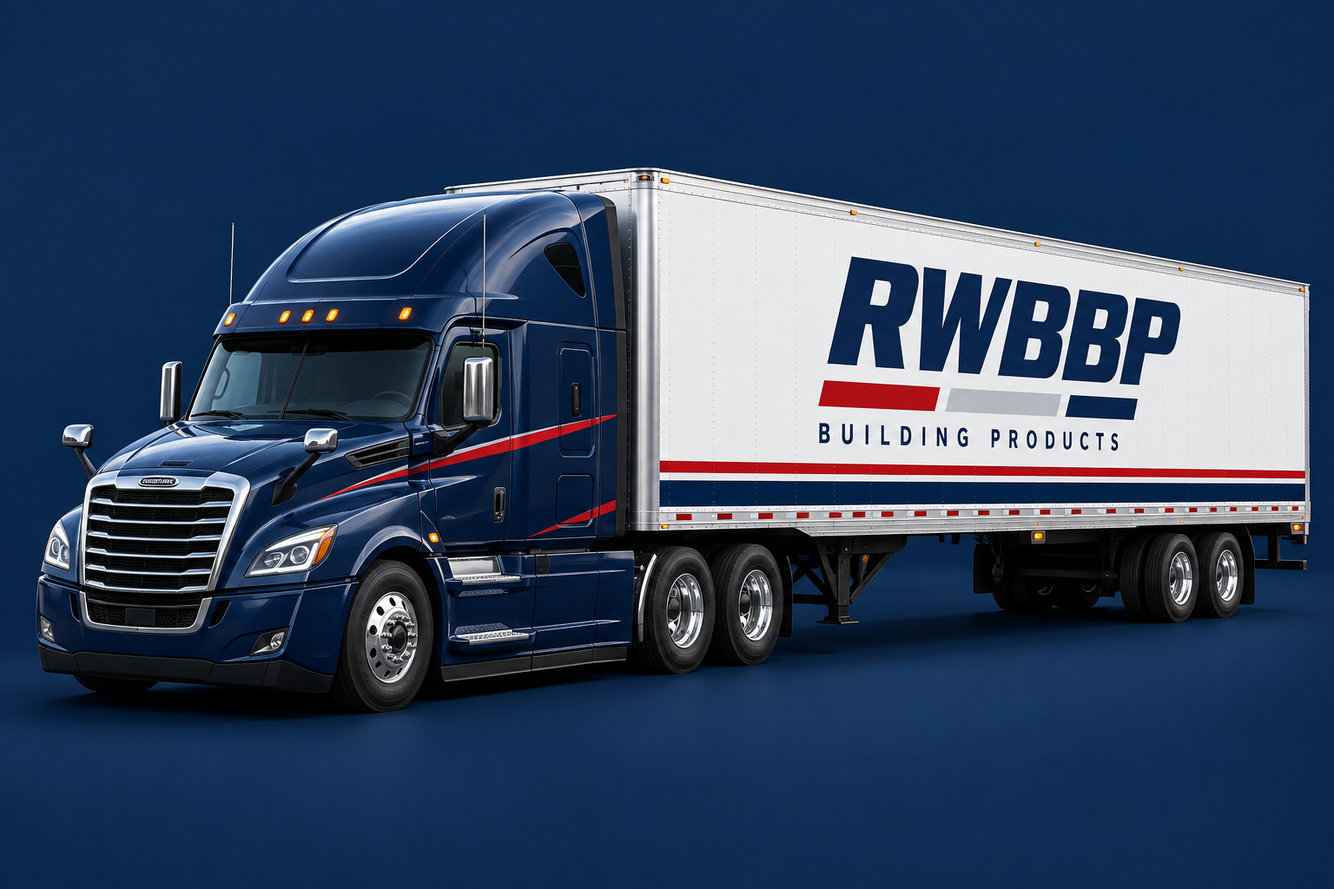
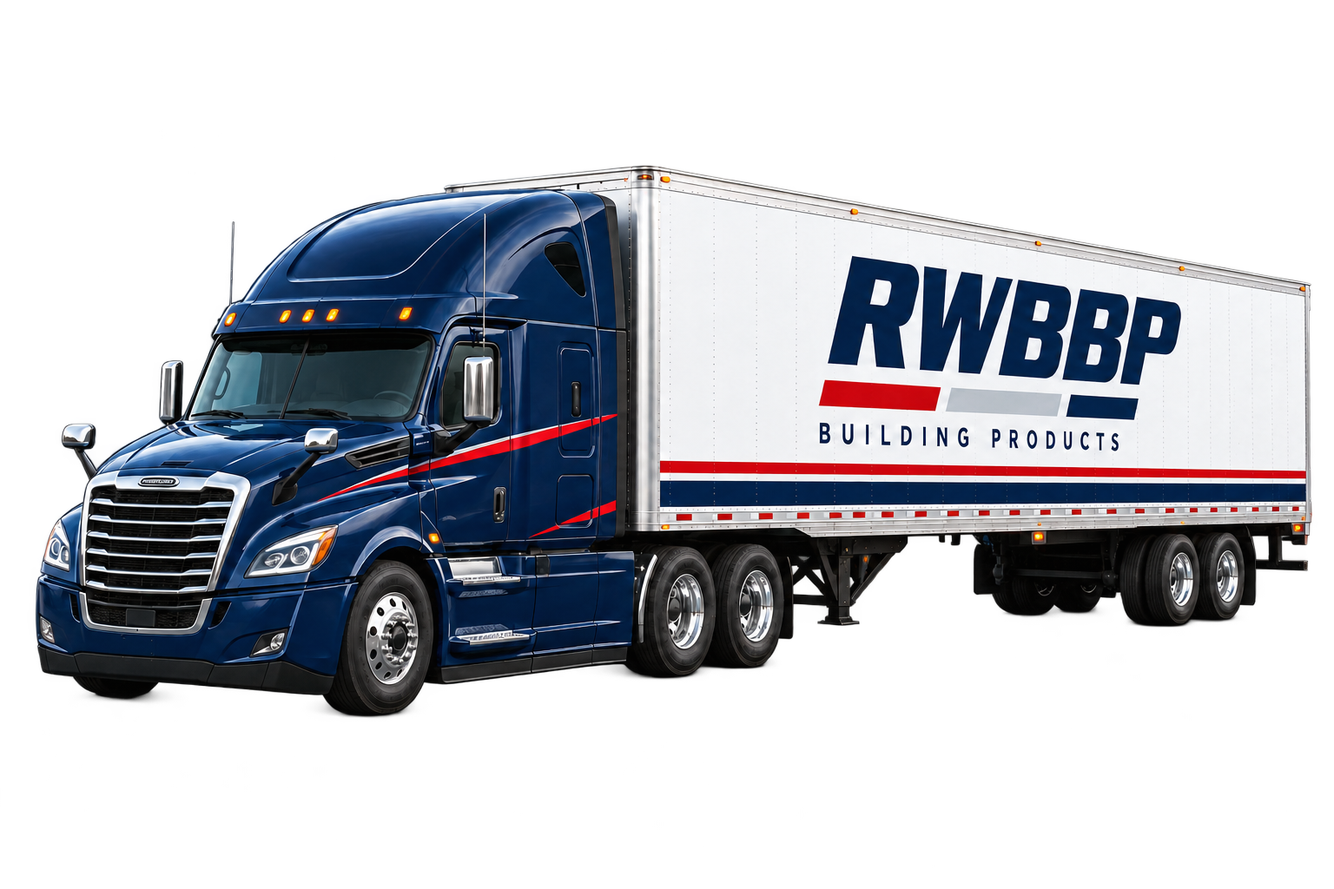
Update products, transparent truck, sitemap, and sharing assets

diff --git a/styles.css b/styles.css
@@ -1,4 +1,6 @@
 @import url('https://fonts.googleapis.com/css2?family=Barlow+Condensed:wght@600;700;800&family=DM+Sans:wght@400;500;600;700&display=swap');
 :root{--navy:#102847;--red:#cf2936;--cream:#f5f4f0;--ink:#142b45;--muted:#65707c}*{box-sizing:border-box}html{scroll-behavior:smooth;scroll-padding-top:30px}body{margin:0;color:var(--ink);font-family:'DM Sans',Arial,sans-serif;font-size:15px}a{color:inherit;text-decoration:none}button,input,textarea{font:inherit}a,button,input,textarea{outline-offset:5px}button,a{ -webkit-tap-highlight-color:transparent}.wrap{width:min(1240px,calc(100% - 100px));margin:auto}.topbar{background:var(--navy);color:white;font-size:10px;font-weight:700;letter-spacing:1.3px}.topbar .wrap{display:flex;justify-content:space-between;padding-block:12px}.topbar a{letter-spacing:.4px}.topbar a span{margin-left:20px}.header{background:white}.nav{height:104px;display:flex;align-items:center;justify-content:space-between}.brand{display:flex;align-items:center;gap:12px}.brand-symbol{font-family:'Barlow Condensed','Arial Narrow',Arial,sans-serif;font-style:italic;font-size:47px;font-weight:800;line-height:.85;letter-spacing:-2px;display:block}.brand-stripes{display:flex;gap:3px;margin-top:7px;transform:skew(-14deg)}.brand-stripes i{height:5px;width:30%;background:var(--red)}.brand-stripes i:nth-child(2){background:#b9c1cc}.brand-stripes i:nth-child(3){background:var(--navy)}.brand-label{font-size:11px;letter-spacing:2px;line-height:1.5;font-weight:800;border-left:1px solid #ccd1d7;padding-left:12px}nav{display:flex;gap:34px;align-items:center;font-size:13px;font-weight:700}nav>a:not(.button):hover{color:var(--red)}.button{display:inline-flex;background:var(--red);color:white;padding:19px 25px;gap:35px;justify-content:space-between;align-items:center;border:0;font-weight:700;font-size:13px;cursor:pointer;transition:background .2s,transform .2s}.button:hover{background:#ac1b28;transform:translateY(-2px)}.button span{font-size:19px}.button.small{padding:14px 20px;gap:24px}.menu-toggle{display:none}.hero{background:var(--navy);color:white;position:relative;overflow:hidden}.hero-grid{position:absolute;inset:0;background-image:linear-gradient(#ffffff05 1px,transparent 1px),linear-gradient(90deg,#ffffff05 1px,transparent 1px);background-size:85px 85px}.hero-content{position:relative;display:grid;grid-template-columns:1fr 1fr;min-height:645px;align-items:center}.hero-copy{padding:55px 0 65px;z-index:2}.eyebrow{font-size:10px;letter-spacing:2px;font-weight:800;color:var(--red);margin:0 0 22px}.eyebrow.light{color:#fff}.eyebrow.light>span{display:inline-block;width:24px;height:3px;background:var(--red);vertical-align:middle;margin-right:10px}h1,h2{font-family:'Barlow Condensed','Arial Narrow',Impact,sans-serif;font-weight:700;letter-spacing:-1px;line-height:1.03;margin:0}h1{font-size:clamp(55px,5.9vw,85px)}h1>span{color:#b6c6d8}.hero-description{color:#c0ccdb;line-height:1.8;max-width:390px;font-size:14px;margin:24px 0 29px}.hero-link{display:inline-block;margin-left:23px;font-size:12px;border-bottom:1px solid #607087;padding:10px 0}.hero-link span{margin-left:10px}.hero-art{height:500px;position:relative;margin-left:-20px;align-self:end}.sun{position:absolute;width:330px;height:330px;border-radius:50%;background:#c72c38;right:-50px;top:0}.building{position:absolute}.rear{width:240px;height:230px;right:-40px;top:180px;background:repeating-linear-gradient(0deg,#abb2ad 0 11px,#929f9d 12px 14px);clip-path:polygon(0 15%,50% 0,100% 15%,100% 100%,0 100%)}.main-building{width:460px;height:330px;top:90px;left:0;filter:drop-shadow(0 24px 20px #03152966)}.roof{height:185px;background:repeating-linear-gradient(115deg,transparent 0 24px,#162e3e 25px 28px),linear-gradient(130deg,#a6b2b3,#4c6372);clip-path:polygon(30% 0,78% 0,100% 100%,0 100%)}.facade{height:165px;margin-top:-1px;background:repeating-linear-gradient(0deg,#e8e4d9 0 12px,#c4c5bc 13px 15px);border-top:7px solid #f3eee1;position:relative;clip-path:polygon(0 0,100% 0,100% 90%,0 100%)}.window{position:absolute;left:40px;top:32px;width:75px;height:80px;background:linear-gradient(90deg,transparent 46%,#e6e4d8 47% 53%,transparent 54%),linear-gradient(0deg,#172e40 46%,#e6e4d8 47% 53%,#344c5b 54%);border:6px solid #eeeade;box-shadow:0 0 0 2px #7e8c8a}.window.second{left:160px}.door{position:absolute;right:40px;top:28px;width:77px;height:128px;background:#273e4b;border:6px solid #f0ece0}.door:after{content:'';position:absolute;width:6px;height:6px;background:#c6c4ae;right:8px;top:60px;border-radius:50%}.art-ground{position:absolute;height:35px;width:650px;left:-70px;bottom:55px;background:#071d34;transform:skew(-45deg);opacity:.5}.art-label{position:absolute;bottom:18px;right:0;display:flex;gap:15px;align-items:center;font-size:9px;line-height:1.8;letter-spacing:1.5px;color:#abbcd0}.art-label strong{font-weight:500;color:white}.cross{font-size:35px;color:#d13743;font-weight:400}.hero-bottom{position:relative;border-top:1px solid #ffffff21;display:flex;justify-content:space-between;padding-block:22px;font-size:9px;font-weight:600;letter-spacing:1.8px;color:#b7c6d8}.down{margin-left:22px;color:white;font-size:18px}.values-bar{background:var(--cream);border-bottom:1px solid #dedfe0}.values-bar .wrap{display:grid;grid-template-columns:repeat(4,1fr);padding-block:26px}.values-bar span{text-align:center;font-size:12px;font-weight:700;border-right:1px solid #d6d8dc}.values-bar span:first-child{text-align:left}.values-bar span:last-child{border:0}.values-bar i{font-style:normal;color:var(--red);font-size:10px;margin-right:15px}.section{padding-block:90px}.section-heading{display:flex;justify-content:space-between;align-items:end;gap:50px;margin-bottom:38px}h2{font-size:52px}.section-heading>p{max-width:350px;line-height:1.8;color:var(--muted);font-size:14px;margin-bottom:4px}.product-grid{display:grid;grid-template-columns:repeat(3,1fr);gap:25px}.product-visual{height:245px;background:#e9e9e5;position:relative;overflow:hidden}.category-number{position:absolute;bottom:15px;left:18px;font-size:9px;letter-spacing:1.5px;color:#4b5863;font-weight:700}.roofing{background:linear-gradient(130deg,#d9ddde,#f0efea)}.roof-sample{position:absolute;width:110%;height:220px;top:60px;left:15px;transform:rotate(-25deg) skew(15deg);background:repeating-linear-gradient(0deg,transparent 0 28px,#202f3a 29px 32px),repeating-linear-gradient(90deg,#586571 0 45px,#445461 46px 90px,#5c6973 91px 135px);box-shadow:0 15px 25px #0005}.siding{background:#e8e3da}.siding-sample{position:absolute;inset:15px -30px 15px 50px;transform:skewY(-14deg);background:repeating-linear-gradient(0deg,#b7b4a8 0 2px,#dedbd0 4px 30px,#a29f92 32px 34px);box-shadow:-12px 14px 22px #39414130;border-left:14px solid #f2f0e6}.specialty{background:#dce1e2}.panels{position:absolute;inset:40px 20px 35px 50px;transform:rotate(-18deg);display:flex;gap:12px}.panels i{height:100%;width:65px;background:repeating-linear-gradient(90deg,#b38960 0 5px,#a17751 6px 7px);box-shadow:8px 12px 10px #23374435}.panels i:nth-child(2){background:repeating-linear-gradient(90deg,#ece5d8 0 16px,#d2c9b8 17px 19px);margin-top:-20px}.panels i:nth-child(3){background:repeating-linear-gradient(90deg,#4d5d66 0 16px,#394b56 17px 19px);margin-top:-40px}.card-info{display:flex;align-items:center;justify-content:space-between;padding:23px 0;border-bottom:1px solid #d8dde1}h3{font-size:20px;margin:0 0 9px;letter-spacing:-.5px}.card-info p{margin:0;color:var(--muted);font-size:12px}.circle-arrow{display:grid;place-items:center;width:34px;height:34px;border:1px solid #d5dae0;border-radius:50%;transition:.2s}.product-card:hover .circle-arrow{background:var(--red);color:white;border-color:var(--red)}.product-card:hover .product-visual>div{filter:brightness(1.05)}.product-note{text-align:center;color:var(--muted);font-size:12px;margin:34px 0 0}.product-note a{color:var(--navy);font-weight:700;margin-left:6px}.product-note a span{color:var(--red);margin-left:10px}.about{background:var(--cream);padding-block:75px}.about-grid{display:grid;grid-template-columns:1fr 1fr;gap:100px;align-items:center}.about-mark{border-left:7px solid var(--red);padding:15px 40px;position:relative}.about-mark>span{display:block;font-family:'Barlow Condensed',Impact,sans-serif;font-size:105px;font-weight:800;letter-spacing:-5px;line-height:.9}.about-mark>span:first-child{color:var(--red)}.about-mark>span:nth-child(2){color:white;text-shadow:1px 0 #b4bdc7,-1px 0 #b4bdc7,0 1px #b4bdc7,0 -1px #b4bdc7}.about-mark>div{position:absolute;left:220px;bottom:15px;font-size:11px;letter-spacing:1.6px;line-height:1.8;font-weight:700;writing-mode:vertical-rl;transform:rotate(180deg)}.about-copy p:not(.eyebrow){color:var(--muted);font-size:14px;line-height:1.9}.about-copy h2{margin-bottom:23px}.text-link{display:inline-block;font-size:13px;font-weight:700;margin-top:10px;border-bottom:2px solid var(--red);padding-bottom:10px}.text-link span{margin-left:60px;color:var(--red)}.approach-grid{display:grid;grid-template-columns:repeat(3,1fr);gap:45px;margin-top:45px}.approach-grid article{border-top:1px solid #d5dbe0;padding-top:24px}.step{color:var(--red);font-size:12px;font-weight:700;display:block;margin-bottom:27px}.approach-grid p{font-size:13px;color:var(--muted);line-height:1.9;max-width:300px}.contact{background:var(--navy);color:white;padding-block:75px;position:relative;border-top:7px solid var(--red)}.contact-grid{display:grid;grid-template-columns:1fr 1fr;gap:120px}.contact h2{font-size:65px}.contact h2 span{color:#b6c6d8}.contact p{color:#b4c3d4;font-size:13px;line-height:1.8;margin-top:25px}form{padding-top:6px}label{display:block;font-size:11px;font-weight:600;margin-bottom:10px}input,textarea{display:block;width:100%;border:1px solid #4c6079;background:#ffffff06;color:white;padding:13px 15px;margin-bottom:20px;border-radius:0;font-size:12px}input::placeholder,textarea::placeholder{color:#a2b3c6}textarea{resize:vertical}form .button{width:100%}.contact .form-note{font-size:10px;margin:12px 0 0;color:#a8b8cb}#form-result{border:1px solid #6b829f;padding:15px;margin-top:15px;white-space:pre-wrap;font-size:12px;line-height:1.7}#form-result button{margin-top:12px;padding:8px 12px;cursor:pointer;color:var(--navy);background:white;border:0}footer{background:#fff}.footer-main{padding-block:40px;display:flex;justify-content:space-between;align-items:center}.footer-main p{font-size:12px;line-height:1.7;color:var(--muted)}.footer-main>a:last-child{font-size:11px;font-weight:700}.footer-bottom{display:flex;justify-content:space-between;font-size:9px;color:var(--muted);border-top:1px solid #dfe2e5;padding-block:22px}.footer-bottom>span:last-child{letter-spacing:1.5px}@media(min-width:1500px){.hero-content{min-height:710px}.hero-art{height:540px}}@media(max-width:1000px){.wrap{width:calc(100% - 56px)}nav{gap:20px}.hero-art{transform:scale(.8);transform-origin:left bottom;margin-left:-10px}.hero-content{grid-template-columns:1.1fr 1fr}.hero-link{margin-left:10px}.hero-copy .button{gap:15px}.about-grid{gap:40px}.contact-grid{gap:60px}.product-visual{height:210px}}@media(max-width:720px){.wrap{width:calc(100% - 40px)}.topbar .wrap{justify-content:center;font-size:8px}.topbar a{display:none}.nav{height:85px}.brand-symbol{font-size:39px}.brand-label{font-size:9px}.menu-toggle{display:flex;gap:18px;border:1px solid #d5dae0;background:white;padding:10px;font-size:12px;color:var(--navy)}nav{display:none;position:absolute;top:116px;left:0;right:0;background:white;z-index:10;padding:25px;box-shadow:0 10px 15px #0001}nav.open{display:flex;flex-direction:column;align-items:stretch;gap:24px}.hero-content{display:block;min-height:0}.hero-copy{padding:45px 0 0}h1{font-size:66px}.hero-description{max-width:360px}.hero-link{margin-left:18px}.hero-art{height:370px;transform:scale(.75);transform-origin:left bottom;max-width:100%;margin-top:-10px;margin-left:0}.sun{right:-160px;top:10px}.art-label{right:-60px;bottom:0}.hero-bottom{padding-block:18px;font-size:8px}.hero-bottom>span:first-child{max-width:130px;line-height:1.6}.hero-bottom>span:last-child{max-width:160px;text-align:right;line-height:1.6}.values-bar .wrap{grid-template-columns:1fr 1fr;gap:22px;padding-block:24px}.values-bar span,.values-bar span:first-child{text-align:left;font-size:10px}.values-bar span:nth-child(2){border:0}.values-bar i{margin-right:10px}.section{padding-block:55px}.section-heading{display:block;margin-bottom:28px}h2{font-size:43px}.section-heading>p{margin-top:20px;max-width:100%;font-size:13px}.eyebrow{font-size:9px;letter-spacing:1.5px;margin-bottom:18px}.product-grid{grid-template-columns:1fr;gap:28px}.product-visual{height:240px}.roof-sample{top:70px}.siding-sample{left:70px}.panels{left:85px}.panels i{width:80px}.product-note{line-height:1.9}.product-note a{display:block}.about{padding-block:50px}.about-grid{grid-template-columns:1fr;gap:35px}.about-mark{display:flex;gap:12px;padding:10px 20px}.about-mark>span{font-size:78px}.about-mark>div{display:none}.about-copy p:not(.eyebrow){font-size:13px}.approach-grid{grid-template-columns:1fr;gap:24px;margin-top:30px}.step{margin-bottom:15px}.approach-grid p{max-width:100%}.contact{padding-block:50px}.contact-grid{grid-template-columns:1fr;gap:35px}.contact h2{font-size:57px}.footer-main{flex-wrap:wrap;gap:20px}.footer-main p{font-size:10px}.footer-bottom{gap:20px;line-height:1.7;font-size:8px}.footer-bottom>span:last-child{text-align:right;max-width:130px}}@media(prefers-reduced-motion:reduce){html{scroll-behavior:auto}*{transition:none!important}}
 .arrow-icon{display:inline-block;vertical-align:middle;flex-shrink:0}.circle-arrow .arrow-icon{width:15px;height:15px}.topbar .arrow-icon{width:12px;height:12px}
-.hero-art.truck-art{height:auto;align-self:center;margin-left:-45px;width:calc(100% + 95px);transform:none;position:relative}.hero-truck{display:block;width:100%;height:auto;mix-blend-mode:lighten}.truck-art .art-label{right:25px;bottom:-22px}@media(max-width:1000px){.hero-art.truck-art{margin-left:-20px;width:calc(100% + 45px)}}@media(max-width:720px){.hero-art.truck-art{margin:25px -20px 45px;width:calc(100% + 40px);max-width:none}.truck-art .art-label{right:20px;bottom:-18px;font-size:8px}}
+.hero-art.truck-art{height:auto;align-self:center;margin-left:-45px;width:calc(100% + 95px);transform:none;position:relative}.hero-truck{display:block;width:100%;height:auto;mix-blend-mode:normal}.truck-art .art-label{right:25px;bottom:-22px}@media(max-width:1000px){.hero-art.truck-art{margin-left:-20px;width:calc(100% + 45px)}}@media(max-width:720px){.hero-art.truck-art{margin:25px -20px 45px;width:calc(100% + 40px);max-width:none}.truck-art .art-label{right:20px;bottom:-18px;font-size:8px}}
+.sitemap-intro{color:var(--muted);line-height:1.8;margin:25px 0 35px}.sitemap-links{position:static;display:grid;grid-template-columns:1fr 1fr;gap:0 40px;padding:0;background:none;box-shadow:none}.sitemap-links a{display:flex;justify-content:space-between;align-items:center;padding:25px 0;border-bottom:1px solid #d8dde1;font-size:19px}.sitemap-links small{display:block;font-size:12px;font-weight:400;color:var(--muted);margin-top:10px;line-height:1.7}.sitemap-links a>span:last-child{color:var(--red)}@media(max-width:720px){.sitemap-links{grid-template-columns:1fr}.sitemap-page h1{font-size:55px}}
+.product-image{display:block;width:100%;height:100%;object-fit:cover;transition:transform .3s}.product-card:hover .product-image{transform:scale(1.035)}.product-visual .category-number{background:#ffffffeb;padding:7px 10px;bottom:12px;left:12px;color:var(--navy)}

diff --git a/index.html b/index.html
@@ -1,14 +1,32 @@
 <!doctype html>
 <html lang="en">
-<head><meta charset="utf-8"><meta name="viewport" content="width=device-width, initial-scale=1"><meta name="description" content="RWBBP. Connecting building product manufacturers, distributors, and the people who build."><meta name="theme-color" content="#102847"><title>RWBBP | Built on good partnerships.</title><link rel="stylesheet" href="styles.css"></head>
+<head><meta charset="utf-8"><meta name="viewport" content="width=device-width, initial-scale=1"><meta name="description" content="RWBBP. Connecting building product manufacturers, distributors, and the people who build."><meta name="theme-color" content="#102847"><title>RWBBP | Built on good partnerships.</title><link rel="stylesheet" href="styles.css"><link rel="canonical" href="https://rwbbp.com/"><link rel="icon" href="/assets/favicon.svg" type="image/svg+xml">
+<link rel="icon" href="/favicon.ico" sizes="any">
+<link rel="apple-touch-icon" href="/assets/apple-touch-icon.png">
+<meta property="og:type" content="website">
+<meta property="og:site_name" content="RWBBP">
+<meta property="og:title" content="RWBBP | Built on good partnerships.">
+<meta property="og:description" content="Connecting building product manufacturers, distributors, and the people who build.">
+<meta property="og:url" content="https://rwbbp.com/">
+<meta property="og:image" content="https://rwbbp.com/assets/og-image.png">
+<meta property="og:image:width" content="1729">
+<meta property="og:image:height" content="910">
+<meta property="og:image:type" content="image/png">
+<meta property="og:image:alt" content="RWBBP Building Products logo on a white background">
+<meta name="twitter:card" content="summary_large_image">
+<meta name="twitter:title" content="RWBBP | Built on good partnerships.">
+<meta name="twitter:description" content="Connecting building product manufacturers, distributors, and the people who build.">
+<meta name="twitter:image" content="https://rwbbp.com/assets/og-image.png">
+<meta name="twitter:image:alt" content="RWBBP Building Products logo on a white background">
+</head>
 <body>
 <div class="topbar"><div class="wrap"><span>BUILDING PRODUCTS. STRONGER CONNECTIONS.</span><a href="#contact">Let’s build something together <span aria-hidden="true"><svg class="arrow-icon" viewBox="0 0 24 24" width="18" height="18" aria-hidden="true"><path d="M5 19 19 5M5 5h14v14" fill="none" stroke="currentColor" stroke-width="1.7"/></svg></span></a></div></div>
 <header class="header"><div class="wrap nav"><a class="brand" href="#" aria-label="RWBBP home"><span class="brand-symbol">RWBBP<span class="brand-stripes"><i></i><i></i><i></i></span></span><span class="brand-label">BUILDING<br>PRODUCTS</span></a><button class="menu-toggle" aria-expanded="false" aria-controls="navigation">Menu <span>☰</span></button><nav id="navigation" aria-label="Main navigation"><a href="#about">Who we are</a><a href="#products">Our products</a><a href="#partners">Our approach</a><a class="button small" href="#contact">Get in touch <span><svg class="arrow-icon" viewBox="0 0 24 24" width="18" height="18" aria-hidden="true"><path d="M5 19 19 5M5 5h14v14" fill="none" stroke="currentColor" stroke-width="1.7"/></svg></span></a></nav></div></header>
 <main>
 <section class="hero"><div class="hero-grid"></div><div class="wrap hero-content"><div class="hero-copy"><p class="eyebrow light"><span></span> YOUR CONNECTION TO WHAT’S NEXT</p><h1>Built on good<br>products.<br><span>Backed by<br>better people.</span></h1><p class="hero-description">Connecting manufacturers, distributors, and the people who build. The right products. The right partnerships. A stronger way forward.</p><a class="button" href="#products">Explore our products <span><svg class="arrow-icon" viewBox="0 0 24 24" width="18" height="18" aria-hidden="true"><path d="M5 19 19 5M5 5h14v14" fill="none" stroke="currentColor" stroke-width="1.7"/></svg></span></a><a class="hero-link" href="#about">Get to know RWBBP <span>→</span></a></div><div class="hero-art truck-art"><img class="hero-truck" src="assets/rwbbp-truck.png" alt="3D rendering of a navy semi truck with a white trailer displaying the RWBBP Building Products logo" width="1536" height="1024" fetchpriority="high"><div class="art-label"><span class="cross">+</span><span>QUALITY IN EVERY DETAIL.<br><strong>CONFIDENCE IN EVERY CONNECTION.</strong></span></div></div></div><div class="hero-bottom wrap"><span>PRODUCT KNOWLEDGE. PERSONAL SERVICE.</span><span>BUILT FOR THE WAY YOU WORK <span class="down">↓</span></span></div></section>
 <div class="values-bar"><div class="wrap"><span><i>01</i> Quality products</span><span><i>02</i> Industry know-how</span><span><i>03</i> Lasting partnerships</span><span><i>04</i> A personal approach</span></div></div>
-<section class="section products wrap" id="products"><div class="section-heading"><div><p class="eyebrow">THE RIGHT PRODUCTS. MORE POSSIBILITIES.</p><h2>Good projects start<br>with great materials.</h2></div><p>From the first layer to the finishing touch, explore building product solutions that help move your next project forward.</p></div><div class="product-grid"><a href="#contact" class="product-card"><div class="product-visual roofing"><div class="roof-sample"></div><span class="category-number">01 / EXTERIOR</span></div><div class="card-info"><div><h3>Roofing</h3><p>Protection from the top down.</p></div><span class="circle-arrow"><svg class="arrow-icon" viewBox="0 0 24 24" width="18" height="18" aria-hidden="true"><path d="M5 19 19 5M5 5h14v14" fill="none" stroke="currentColor" stroke-width="1.7"/></svg></span></div></a><a href="#contact" class="product-card"><div class="product-visual siding"><div class="siding-sample"></div><span class="category-number">02 / EXTERIOR</span></div><div class="card-info"><div><h3>Siding & trim</h3><p>Character in every detail.</p></div><span class="circle-arrow"><svg class="arrow-icon" viewBox="0 0 24 24" width="18" height="18" aria-hidden="true"><path d="M5 19 19 5M5 5h14v14" fill="none" stroke="currentColor" stroke-width="1.7"/></svg></span></div></a><a href="#contact" class="product-card"><div class="product-visual specialty"><div class="panels"><i></i><i></i><i></i></div><span class="category-number">03 / SOLUTIONS</span></div><div class="card-info"><div><h3>Specialty products</h3><p>The details that make a difference.</p></div><span class="circle-arrow"><svg class="arrow-icon" viewBox="0 0 24 24" width="18" height="18" aria-hidden="true"><path d="M5 19 19 5M5 5h14v14" fill="none" stroke="currentColor" stroke-width="1.7"/></svg></span></div></a></div><p class="product-note">Have a specific product in mind? <a href="#contact">Let’s talk about what you need <span>→</span></a></p></section>
+<section class="section products wrap" id="products"><div class="section-heading"><div><p class="eyebrow">THE RIGHT PRODUCTS. MORE POSSIBILITIES.</p><h2>Good projects start<br>with great materials.</h2></div><p>From the first layer to the finishing touch, explore building product solutions that help move your next project forward.</p></div><div class="product-grid"><a href="#contact" class="product-card"><div class="product-visual roofing"><img class="product-image" src="assets/roofing.png" alt="Realistic rendering of overlapping charcoal architectural asphalt shingles" width="1536" height="1024" loading="lazy" decoding="async"><span class="category-number">01 / EXTERIOR</span></div><div class="card-info"><div><h3>Roofing</h3><p>Protection from the top down.</p></div><span class="circle-arrow"><svg class="arrow-icon" viewBox="0 0 24 24" width="18" height="18" aria-hidden="true"><path d="M5 19 19 5M5 5h14v14" fill="none" stroke="currentColor" stroke-width="1.7"/></svg></span></div></a><a href="#contact" class="product-card"><div class="product-visual drywall"><img class="product-image" src="assets/drywall.png" alt="Realistic rendering of stacked gypsum drywall sheets showing paper faces and white cores" width="1536" height="1024" loading="lazy" decoding="async"><span class="category-number">02 / INTERIOR</span></div><div class="card-info"><div><h3>Drywall</h3><p>A solid foundation for every room.</p></div><span class="circle-arrow"><svg class="arrow-icon" viewBox="0 0 24 24" width="18" height="18" aria-hidden="true"><path d="M5 19 19 5M5 5h14v14" fill="none" stroke="currentColor" stroke-width="1.7"/></svg></span></div></a><a href="#contact" class="product-card"><div class="product-visual insulation"><img class="product-image" src="assets/insulation.png" alt="Realistic rendering of thick pink fiberglass insulation batts" width="1536" height="1024" loading="lazy" decoding="async"><span class="category-number">03 / PERFORMANCE</span></div><div class="card-info"><div><h3>Insulation</h3><p>Comfort built into every space.</p></div><span class="circle-arrow"><svg class="arrow-icon" viewBox="0 0 24 24" width="18" height="18" aria-hidden="true"><path d="M5 19 19 5M5 5h14v14" fill="none" stroke="currentColor" stroke-width="1.7"/></svg></span></div></a></div><p class="product-note">Have a specific product in mind? <a href="#contact">Let’s talk about what you need <span>→</span></a></p></section>
 <section class="about" id="about"><div class="wrap about-grid"><div class="about-mark" aria-hidden="true"><span>R.</span><span>W.</span><span>B.</span><div>GOOD PEOPLE.<br>SOLID CONNECTIONS.</div></div><div class="about-copy"><p class="eyebrow">MORE THAN A PRODUCT CONNECTION</p><h2>Business is built<br>on relationships.</h2><p>Behind every great building product is a team that believes in it. RWBBP brings a personal approach to connecting products with the people and businesses that need them.</p><p>We believe in straightforward conversations, practical product knowledge, and partnerships that grow stronger over time.</p><a class="text-link" href="#partners">How we work <span><svg class="arrow-icon" viewBox="0 0 24 24" width="18" height="18" aria-hidden="true"><path d="M5 19 19 5M5 5h14v14" fill="none" stroke="currentColor" stroke-width="1.7"/></svg></span></a></div></div></section>
 <section class="section wrap approach" id="partners"><div class="section-heading"><div><p class="eyebrow">CONNECTED FROM THE START</p><h2>Your goals.<br>Our shared commitment.</h2></div><p>A straightforward approach to moving your business forward, with people who care about the details.</p></div><div class="approach-grid"><article><span class="step">01</span><h3>We listen first.</h3><p>Every business is different. We start by understanding your products, your market, and where you want to go.</p></article><article><span class="step">02</span><h3>We make connections.</h3><p>Bringing manufacturers and distribution partners together around the right products and shared opportunities.</p></article><article><span class="step">03</span><h3>We stay involved.</h3><p>Clear communication and a hands-on approach keep the relationship moving long after the introduction.</p></article></div></section>
 <section class="contact" id="contact"><div class="wrap contact-grid"><div><p class="eyebrow light">LET’S GET TO WORK</p><h2>Your next great<br>partnership<br><span>starts here.</span></h2><p>Looking for a product or exploring a new opportunity?<br>Tell us a little about what you have in mind.</p></div><form id="contact-form"><label for="name">Your name</label><input id="name" name="name" placeholder="First and last name" autocomplete="name" required><label for="email">Email address</label><input id="email" name="email" type="email" placeholder="you@company.com" autocomplete="email" required><label for="message">How can we help?</label><textarea id="message" name="message" rows="3" placeholder="Tell us about your project or business…" required></textarea><button class="button" type="submit">Prepare your inquiry <span><svg class="arrow-icon" viewBox="0 0 24 24" width="18" height="18" aria-hidden="true"><path d="M5 19 19 5M5 5h14v14" fill="none" stroke="currentColor" stroke-width="1.7"/></svg></span></button><p class="form-note">Prepare a message to copy. Online delivery is not yet connected.</p><div id="form-result" role="status" hidden></div></form></div></section>
-</main><footer><div class="wrap footer-main"><a class="brand" href="#"><span class="brand-symbol">RWBBP<span class="brand-stripes"><i></i><i></i><i></i></span></span><span class="brand-label">BUILDING<br>PRODUCTS</span></a><p>Good products. Better people.<br>Stronger partnerships.</p><a href="#">Back to top ↑</a></div><div class="wrap footer-bottom"><span>© <span id="year">2026</span> RWBBP.</span><span>RED. WHITE. BLUE. BUILT AROUND YOU.</span></div></footer><script src="script.js"></script></body></html>
+</main><footer><div class="wrap footer-main"><a class="brand" href="#"><span class="brand-symbol">RWBBP<span class="brand-stripes"><i></i><i></i><i></i></span></span><span class="brand-label">BUILDING<br>PRODUCTS</span></a><p>Good products. Better people.<br>Stronger partnerships.</p><a href="#">Back to top ↑</a></div><div class="wrap footer-bottom"><span>© <span id="year">2026</span> RWBBP.</span><a href="sitemap.html">Sitemap</a><span>RED. WHITE. BLUE. BUILT AROUND YOU.</span></div></footer><script src="script.js"></script></body></html>

diff --git a/sitemap.html b/sitemap.html
@@ -1,0 +1,27 @@
+<!doctype html>
+<html lang="en">
+<head><meta charset="utf-8"><meta name="viewport" content="width=device-width, initial-scale=1"><meta name="description" content="Find your way around the RWBBP website: products, company information, our approach, and contact."><title>Sitemap | RWBBP</title><link rel="stylesheet" href="styles.css"><link rel="canonical" href="https://rwbbp.com/sitemap.html"><link rel="icon" href="/assets/favicon.svg" type="image/svg+xml">
+<link rel="icon" href="/favicon.ico" sizes="any">
+<link rel="apple-touch-icon" href="/assets/apple-touch-icon.png">
+<meta property="og:type" content="website">
+<meta property="og:site_name" content="RWBBP">
+<meta property="og:title" content="Sitemap | RWBBP">
+<meta property="og:description" content="Explore RWBBP products, company information, our approach, and contact.">
+<meta property="og:url" content="https://rwbbp.com/sitemap.html">
+<meta property="og:image" content="https://rwbbp.com/assets/og-image.png">
+<meta property="og:image:width" content="1729">
+<meta property="og:image:height" content="910">
+<meta property="og:image:type" content="image/png">
+<meta property="og:image:alt" content="RWBBP Building Products logo on a white background">
+<meta name="twitter:card" content="summary_large_image">
+<meta name="twitter:title" content="Sitemap | RWBBP">
+<meta name="twitter:description" content="Explore RWBBP products, company information, our approach, and contact.">
+<meta name="twitter:image" content="https://rwbbp.com/assets/og-image.png">
+<meta name="twitter:image:alt" content="RWBBP Building Products logo on a white background">
+</head>
+<body>
+<div class="topbar"><div class="wrap"><span>BUILDING PRODUCTS. STRONGER CONNECTIONS.</span><a href="index.html#contact">Let’s build something together →</a></div></div>
+<header class="header"><div class="wrap nav"><a class="brand" href="index.html" aria-label="RWBBP home"><span class="brand-symbol">RWBBP<span class="brand-stripes"><i></i><i></i><i></i></span></span><span class="brand-label">BUILDING<br>PRODUCTS</span></a><a class="text-link" href="index.html">Back to home →</a></div></header>
+<main class="wrap section sitemap-page"><p class="eyebrow">FIND YOUR WAY</p><h1>Sitemap</h1><p class="sitemap-intro">Good products. Better people. Everything you need to get connected.</p><nav aria-label="Sitemap" class="sitemap-links"><a href="index.html"><span>Home<small>The RWBBP overview.</small></span><span aria-hidden="true">→</span></a><a href="index.html#about"><span>Who we are<small>Get to know RWBBP.</small></span><span aria-hidden="true">→</span></a><a href="index.html#products"><span>Our products<small>Roofing, drywall, and insulation.</small></span><span aria-hidden="true">→</span></a><a href="index.html#partners"><span>Our approach<small>How we build stronger partnerships.</small></span><span aria-hidden="true">→</span></a><a href="index.html#contact"><span>Get in touch<small>Prepare an inquiry for our team.</small></span><span aria-hidden="true">→</span></a></nav></main>
+<footer><div class="wrap footer-bottom"><span>© RWBBP.</span><a href="sitemap.xml">XML sitemap</a><span>RED. WHITE. BLUE. BUILT AROUND YOU.</span></div></footer>
+</body></html>

diff --git a/server.js b/server.js
@@ -2,9 +2,18 @@ const http = require('node:http');
 const fs = require('node:fs');
 const path = require('node:path');
 const root = __dirname;
-const types = {'.html':'text/html; charset=utf-8','.css':'text/css','.js':'text/javascript','.svg':'image/svg+xml'};
+const types = {'.html':'text/html; charset=utf-8','.css':'text/css','.js':'text/javascript','.svg':'image/svg+xml','.xml':'application/xml; charset=utf-8','.txt':'text/plain; charset=utf-8','.png':'image/png','.ico':'image/vnd.microsoft.icon'};
 http.createServer((req,res)=>{
   const pathname = new URL(req.url, 'http://localhost').pathname;
+  if (pathname === '/sitemap.xml') {
+    // SITE_URL can override the canonical public origin for other deployments.
+    const origin = new URL(process.env.SITE_URL || 'https://rwbbp.com').origin;
+    const escapeXml = value => value.replace(/[<>&"']/g, character => ({'<':'&lt;','>':'&gt;','&':'&amp;','"':'&quot;',"'":'&apos;'}[character]));
+    const urls = ['/', '/sitemap.html'].map(route => `<url><loc>${escapeXml(origin + route)}</loc></url>`).join('');
+    res.writeHead(200, {'Content-Type':'application/xml; charset=utf-8'});
+    res.end(`<?xml version="1.0" encoding="UTF-8"?><urlset xmlns="http://www.sitemaps.org/schemas/sitemap/0.9">${urls}</urlset>`);
+    return;
+  }
   const file = path.resolve(root, '.' + decodeURIComponent(pathname === '/' ? '/index.html' : pathname));
   if (!file.startsWith(root + path.sep)) {res.writeHead(403);res.end();return;}
   fs.readFile(file,(err,data)=>{res.writeHead(err?404:200,{'Content-Type':types[path.extname(file)]||'application/octet-stream'});res.end(err?'Not found':data);});

diff --git a/README.md b/README.md
@@ -11,3 +11,7 @@ From `/workspace/rwbbp`, run `npm start`. The server listens on port 3000 (overr
 The business name is RWBBP. Product categories and descriptive copy are provisional; the requested reference website was unreachable during development. Update these with approved business information before launch.
 
 The inquiry form validates input and prepares a copyable message. It does not deliver inquiries or store submissions. Connect a delivery service or add an approved business email before launch.
+
+## Sitemap
+
+The footer links to `/sitemap.html`, which lists the site's main sections. The Node server serves `/sitemap.xml` with the homepage and sitemap page; section anchors are not separate indexed pages. The canonical public origin is `https://rwbbp.com`. The XML sitemap uses this domain by default; `SITE_URL` can override it for other deployments. Static-only hosting needs an exported XML sitemap with this domain.
